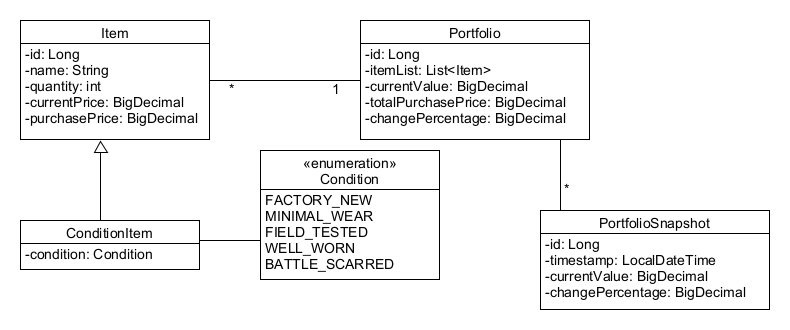
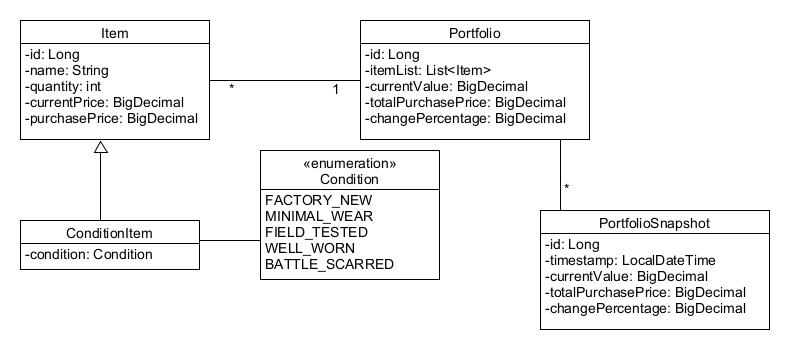
BACKEND: Add portfolioSnapshot functionality; Updating Class diagrams

diff --git a/backend/src/main/java/csp/service/SnapshotService.java b/backend/src/main/java/csp/service/SnapshotService.java
@@ -1,0 +1,46 @@
+package csp.service;
+
+import csp.inventory.Portfolio;
+import csp.inventory.PortfolioSnapshot;
+import csp.repository.SnapshotRepository;
+import lombok.extern.slf4j.Slf4j;
+import org.springframework.beans.factory.annotation.Autowired;
+import org.springframework.stereotype.Service;
+
+import java.time.LocalDateTime;
+import java.util.List;
+
+@Slf4j
+@Service
+public class SnapshotService {
+    private final SnapshotRepository snapshotRepository;
+    private final PortfolioService portfolioService;
+
+    @Autowired
+    public SnapshotService(SnapshotRepository snapshotRepository, PortfolioService portfolioService) {
+        this.snapshotRepository = snapshotRepository;
+        this.portfolioService = portfolioService;
+    }
+
+    public void takeNewSnapshot() {
+        Portfolio currentPortfolio = portfolioService.getPortfolio();
+
+        if (currentPortfolio == null) {
+            log.warn("No portfolio found, no snapshot taken!");
+            return;
+        }
+
+        PortfolioSnapshot portfolioSnapshot = new PortfolioSnapshot();
+        portfolioSnapshot.setTimestamp(LocalDateTime.now());
+        portfolioSnapshot.setCurrentValue(currentPortfolio.getCurrentValue());
+        portfolioSnapshot.setTotalPurchasePrice(currentPortfolio.getTotalPurchasePrice());
+        portfolioSnapshot.setChangePercentage(currentPortfolio.getChangePercentage());
+
+        snapshotRepository.save(portfolioSnapshot);
+    }
+
+    public List<PortfolioSnapshot> getAllSnapshots() {
+        return snapshotRepository.findAllByOrderByTimestampDesc();
+    }
+
+}

diff --git a/backend/src/main/java/csp/controller/SnapshotController.java b/backend/src/main/java/csp/controller/SnapshotController.java
@@ -1,0 +1,34 @@
+package csp.controller;
+
+import csp.inventory.PortfolioSnapshot;
+import csp.service.SnapshotService;
+import org.springframework.beans.factory.annotation.Autowired;
+import org.springframework.http.ResponseEntity;
+import org.springframework.stereotype.Controller;
+import org.springframework.web.bind.annotation.GetMapping;
+import org.springframework.web.bind.annotation.PostMapping;
+import org.springframework.web.bind.annotation.RequestMapping;
+
+import java.util.List;
+
+@Controller
+@RequestMapping("/api/snapshot")
+public class SnapshotController {
+    private final SnapshotService snapshotService;
+
+    @Autowired
+    public SnapshotController(SnapshotService snapshotService) {
+        this.snapshotService = snapshotService;
+    }
+
+    @GetMapping
+    public ResponseEntity<List<PortfolioSnapshot>> getAllSnapshots() {
+        return ResponseEntity.ok(snapshotService.getAllSnapshots());
+    }
+
+    @PostMapping("/snap")
+    public ResponseEntity<Void> takeNewSnapshot() {
+        snapshotService.takeNewSnapshot();
+        return ResponseEntity.ok().build();
+    }
+}

diff --git a/backend/src/main/java/csp/repository/SnapshotRepository.java b/backend/src/main/java/csp/repository/SnapshotRepository.java
@@ -1,7 +1,10 @@
 package csp.repository;
 
-import csp.inventory.PortfolioSnapshots;
+import csp.inventory.PortfolioSnapshot;
 import org.springframework.data.jpa.repository.JpaRepository;
 
-public interface SnapshotRepository extends JpaRepository<PortfolioSnapshots, Long> {
+import java.util.List;
+
+public interface SnapshotRepository extends JpaRepository<PortfolioSnapshot, Long> {
+    List<PortfolioSnapshot> findAllByOrderByTimestampDesc();
 }

diff --git a/backend/src/main/java/csp/inventory/PortfolioSnapshot.java b/backend/src/main/java/csp/inventory/PortfolioSnapshot.java
@@ -11,11 +11,12 @@ import java.time.LocalDateTime;
 
 @Entity
 @Data
-public class PortfolioSnapshots {
+public class PortfolioSnapshot {
     @Id
     @GeneratedValue(strategy = GenerationType.IDENTITY)
     private long id;
     private LocalDateTime timestamp;
     private BigDecimal currentValue;
+    private BigDecimal totalPurchasePrice;
     private BigDecimal changePercentage;
 }
